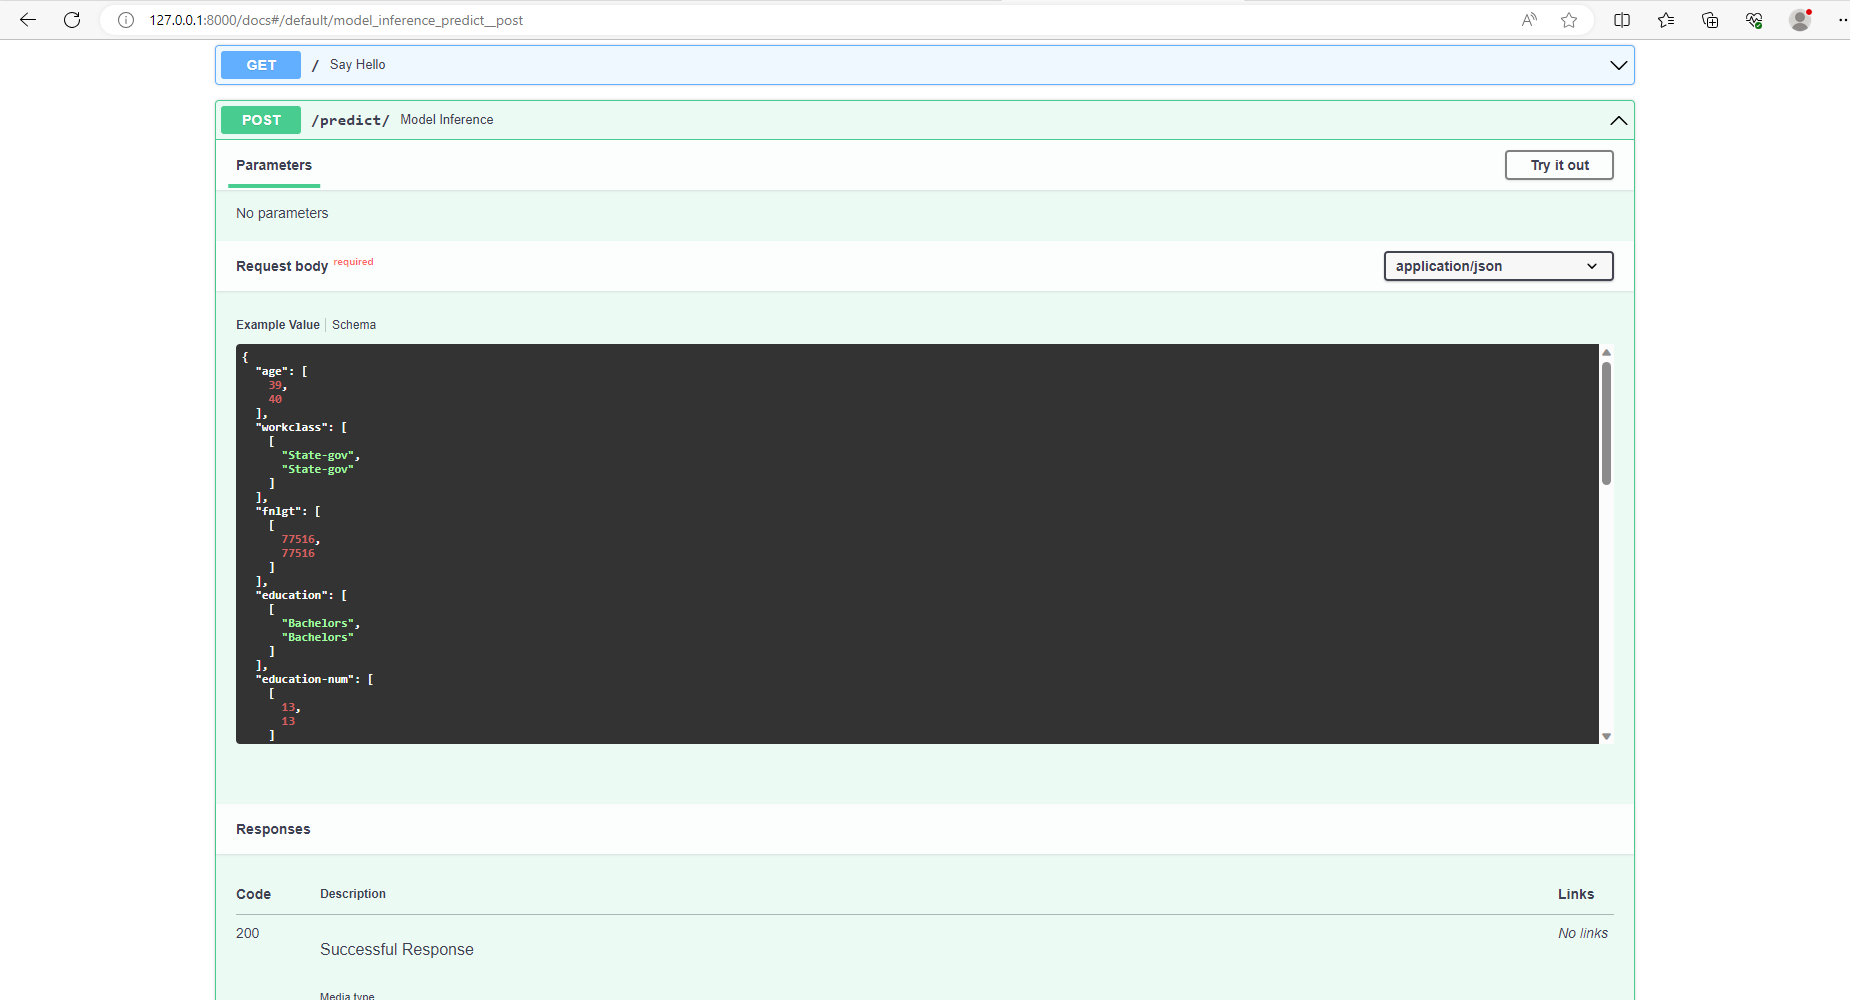
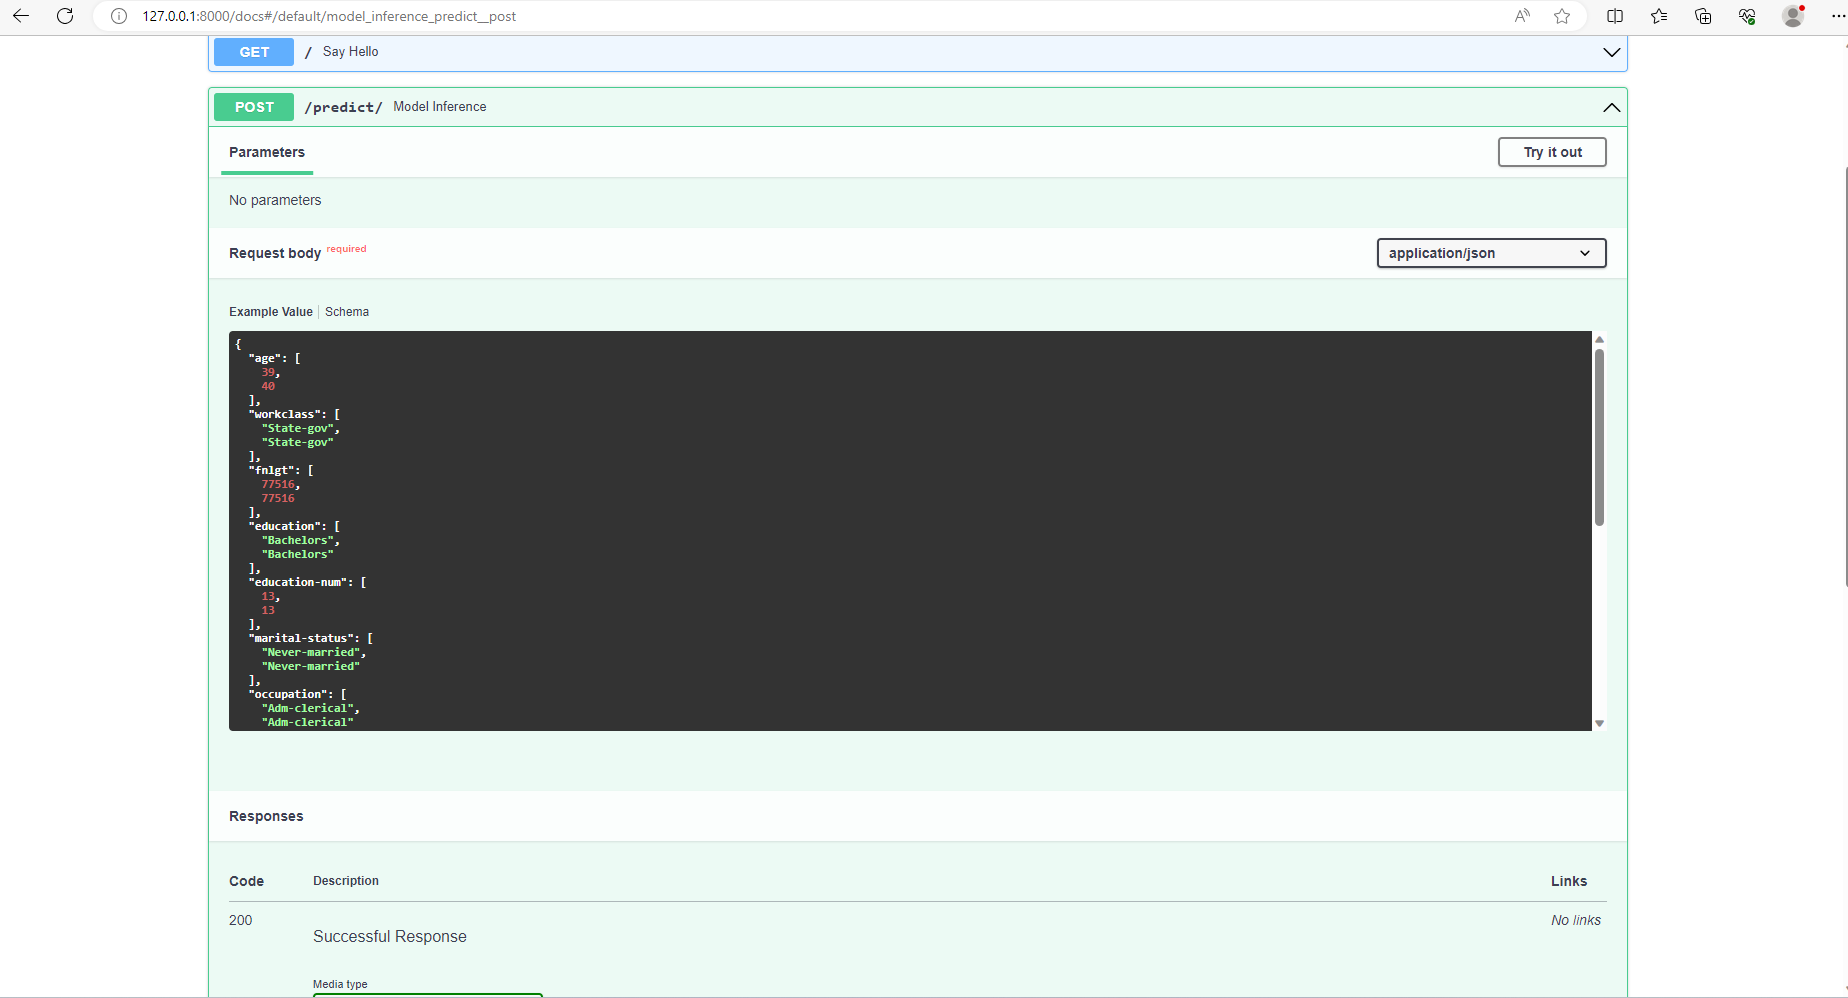
fix: modify example.png

diff --git a/starter/main.py b/starter/main.py
@@ -18,19 +18,19 @@ app = FastAPI(
 )
 class Census(BaseModel):
     age: List[int]=Field(example=[39,40])
-    workclass: List[str]=Field(example=[['State-gov','State-gov']])
-    fnlgt: List[int]=Field(example=[[77516,77516]])
-    education: List[str]=Field(example=[['Bachelors','Bachelors']])
-    education_num: List[int]=Field(alias="education-num",example=[[13,13]])
-    marital_status: List[str]=Field(alias="marital-status",example=[['Never-married','Never-married']])
-    occupation: List[str]=Field(example=[['Adm-clerical','Adm-clerical']])
-    relationship: List[str]=Field(example=[['Not-in-family','Not-in-family']])
-    race: List[str]=Field(example=[['White','White']])
-    sex: List[str]=Field(example=[['Male','Male']])
-    capital_gain: List[int]=Field(alias="capital-gain",example=[[2174,2174]])
-    capital_loss: List[int]=Field(alias="capital-loss",example=[[0,0]])
-    hours_per_week: List[int]=Field(alias="hours-per-week",example=[[40,40]])
-    native_country: List[str]=Field(alias="native-country",example=[['United-States','United-States']])
+    workclass: List[str]=Field(example=['State-gov','State-gov'])
+    fnlgt: List[int]=Field(example=[77516,77516])
+    education: List[str]=Field(example=['Bachelors','Bachelors'])
+    education_num: List[int]=Field(alias="education-num",example=[13,13])
+    marital_status: List[str]=Field(alias="marital-status",example=['Never-married','Never-married'])
+    occupation: List[str]=Field(example=['Adm-clerical','Adm-clerical'])
+    relationship: List[str]=Field(example=['Not-in-family','Not-in-family'])
+    race: List[str]=Field(example=['White','White'])
+    sex: List[str]=Field(example=['Male','Male'])
+    capital_gain: List[int]=Field(alias="capital-gain",example=[2174,2174])
+    capital_loss: List[int]=Field(alias="capital-loss",example=[0,0])
+    hours_per_week: List[int]=Field(alias="hours-per-week",example=[40,40])
+    native_country: List[str]=Field(alias="native-country",example=['United-States','United-States'])
 
 # Define a GET on the specified endpoint.
 @app.get("/")
